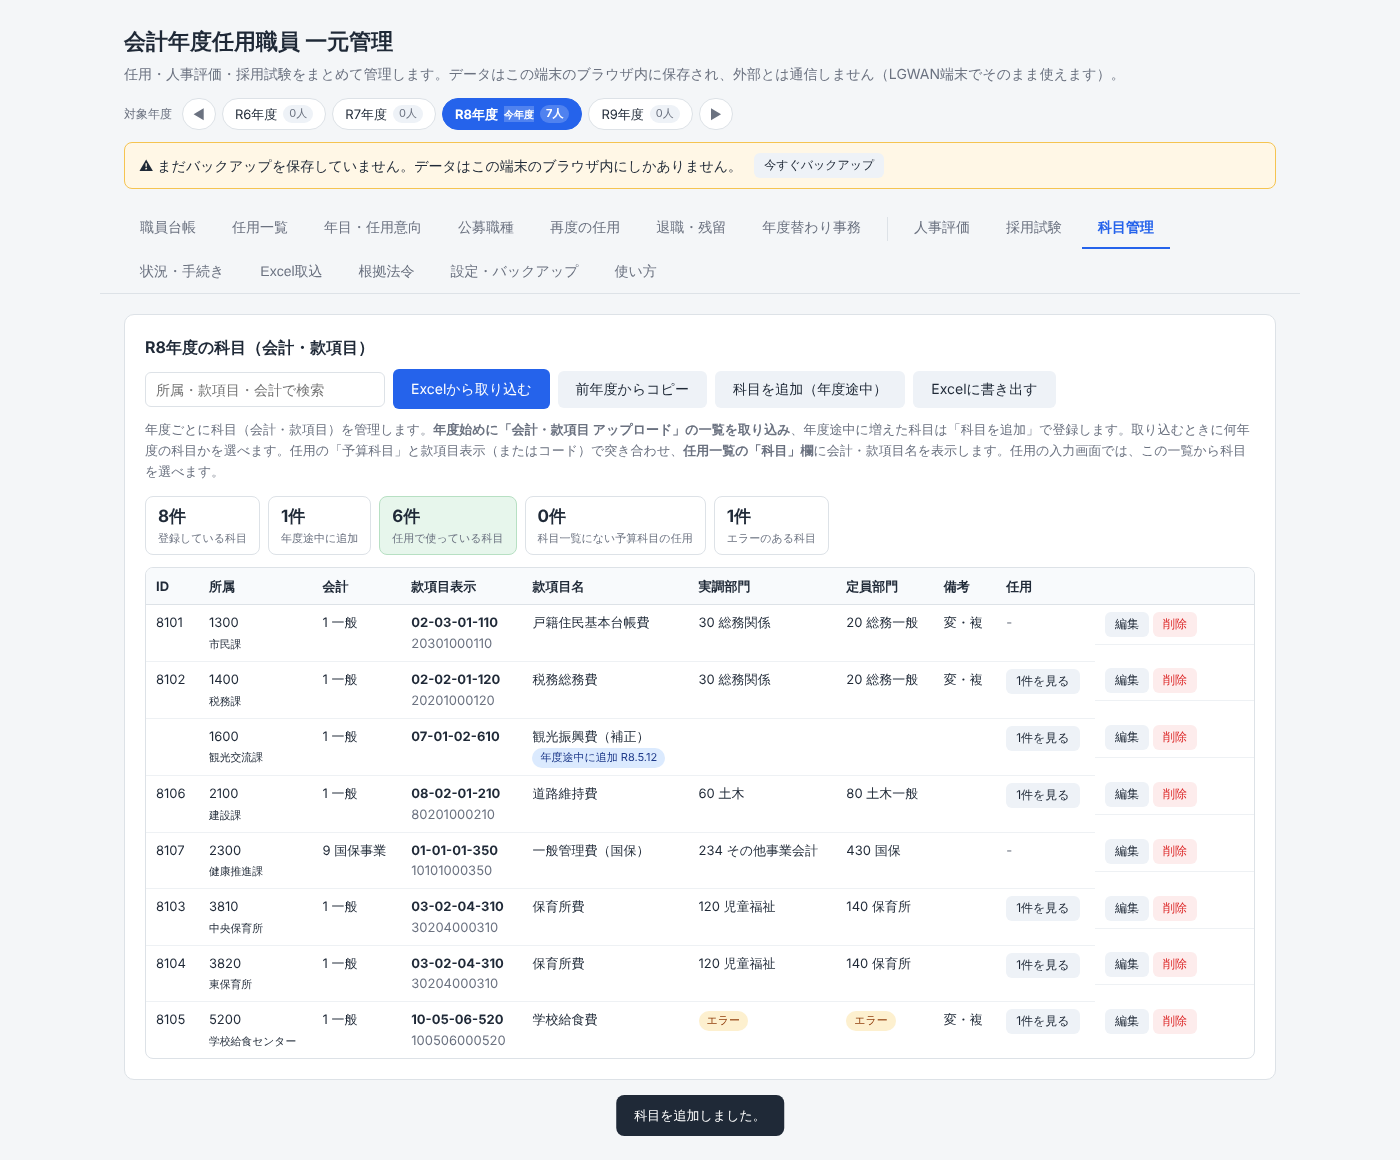
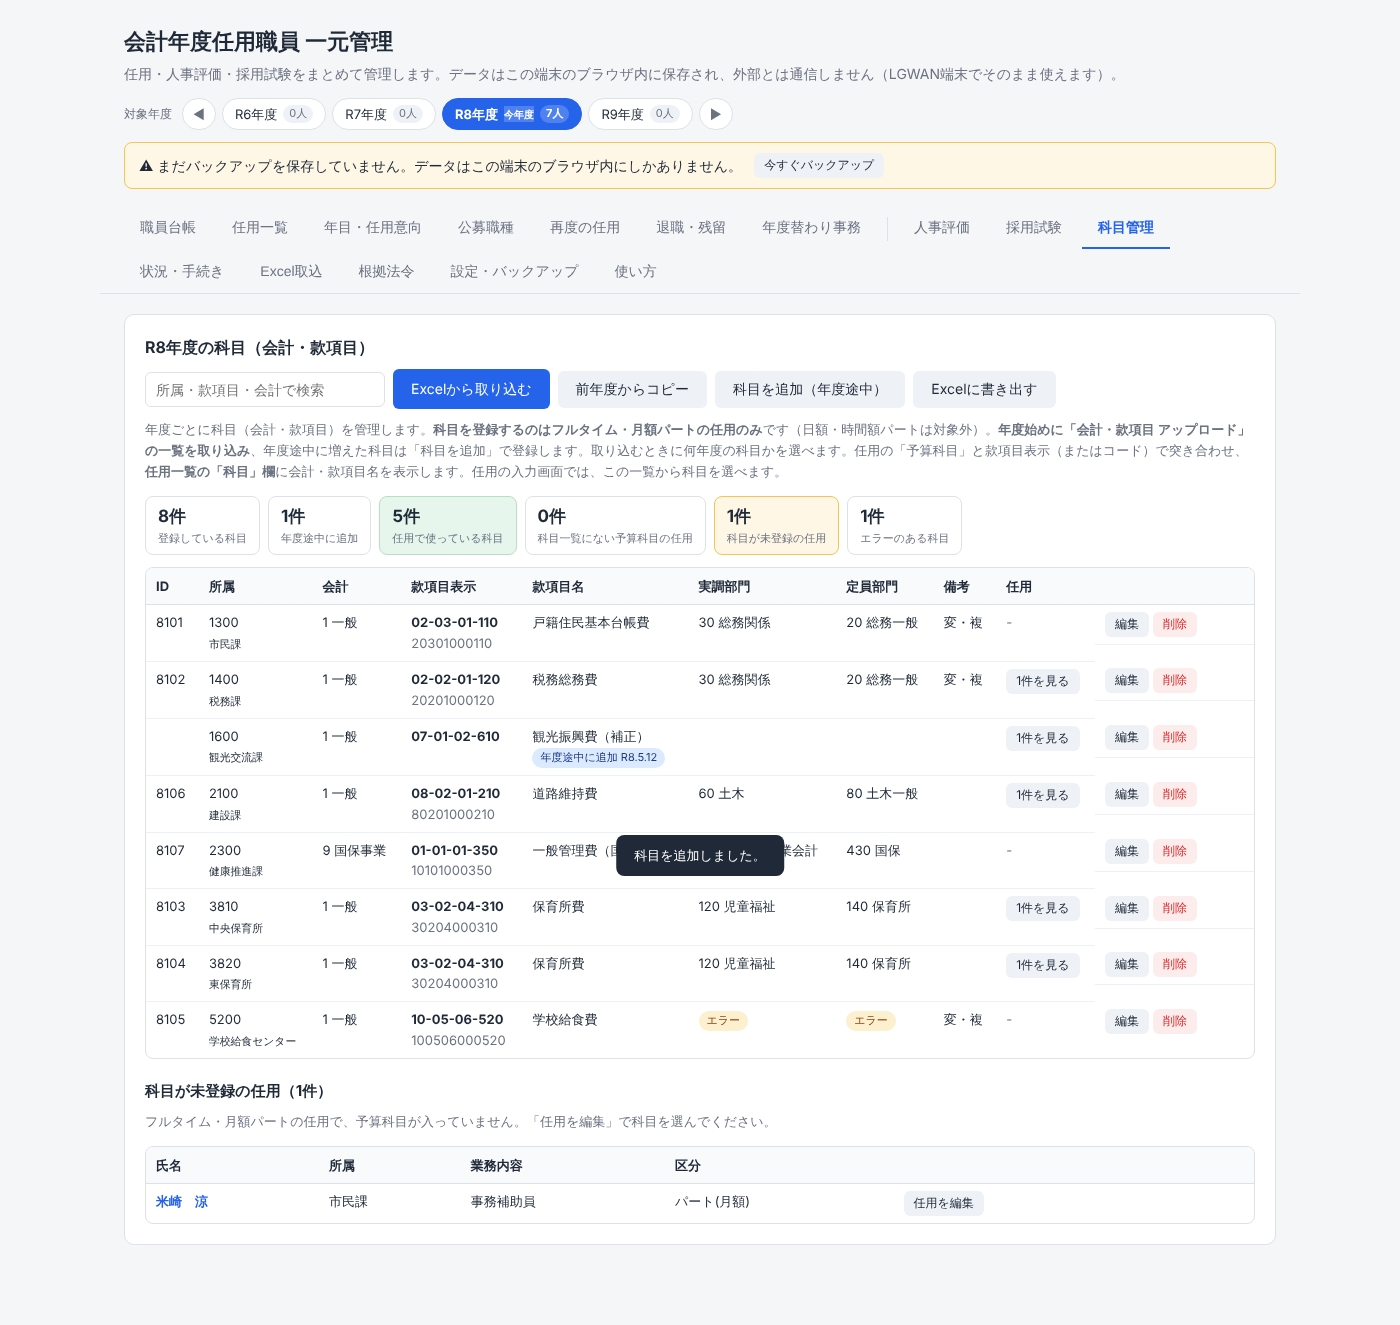
科目の登録はフルタイム・月額パートの任用のみにする
日額・時間額パートは任用一覧の科目欄を「対象外」とし、入力画面で科目を選べないようにする。
科目が未登録のフルタイム・月額パートの任用を科目管理で一覧にする。

Claude-Session: https://claude.ai/code/session_01TV6gLjN2w3tfB3MhK9eTKV

diff --git a/js/app.js b/js/app.js
@@ -590,7 +590,7 @@ function appointFields(fy = currentFy(), deptCode = '') {
     { key: 'dept', label: '所属名', required: true },
     { key: 'workplace', label: '就業場所' },
     { key: 'title', label: '業務内容', required: true, placeholder: '例：保育士、事務補助員' },
-    { key: 'kamokuSel', label: '科目（科目管理の一覧から選ぶ）', type: 'select', options: kamokuOptions(fy, deptCode), full: true, hint: '選ぶと会計・予算科目に入ります。一覧にない科目は会計・予算科目に手入力するか、科目管理で追加してください' },
+    { key: 'kamokuSel', label: '科目（科目管理の一覧から選ぶ）', type: 'select', options: kamokuOptions(fy, deptCode), full: true, hint: 'フルタイム・月額パートのみ登録します（日額・時間額パートは対象外）。選ぶと会計・予算科目に入ります。一覧にない科目は科目管理で追加してください' },
     { key: 'account', label: '会計' },
     { key: 'budgetCode', label: '予算科目', hint: '款項目表示（例：02-01-06-115）' },
     { type: 'heading', label: '任用期間・勤務時間' },
@@ -740,6 +740,15 @@ function openAppointForm(appt, preset = {}) {
   };
   document.getElementById('modal-form').addEventListener('change', refreshJudge);
   refreshJudge();
+  // 科目はフルタイム・月額パートのみ（日額・時間額パートは選べない）
+  const syncKamoku = () => {
+    const ok = ['full', 'part_monthly'].includes(document.getElementById('f-kubun').value);
+    ['f-kamokuSel', 'f-account', 'f-budgetCode'].forEach((id) => { document.getElementById(id).disabled = !ok; });
+    if (!ok) document.getElementById('f-kamokuSel').value = '';
+  };
+  document.getElementById('f-kubun').addEventListener('change', syncKamoku);
+  document.getElementById('f-weeklyHours').addEventListener('change', () => setTimeout(syncKamoku));
+  syncKamoku();
   // 科目を選んだら会計・予算科目（所属が空欄なら所属も）に入れる
   document.getElementById('f-kamokuSel').addEventListener('change', (e) => {
     const k = DATA.kamoku.find((x) => x.id === e.target.value);
@@ -2395,7 +2404,8 @@ function kamokuLabel(k) { return `${k.display || k.code} ${k.name || ''}`.trim()
 function errCell(v) { return /エラー/.test(v || '') ? `<span class="badge warn">${escapeHtml(v)}</span>` : escapeHtml(v); }
 /** 任用一覧の「科目」欄 */
 function kamokuCell(a) {
-  if (!a.budgetCode && !a.account) return '<span class="muted">-</span>';
+  if (!C.kamokuApplies(a)) return '<span class="muted">対象外</span>';
+  if (!a.budgetCode && !a.account) return a.status === 'canceled' ? '<span class="muted">-</span>' : '<span class="badge warn">科目未登録</span>';
   const k = C.kamokuOfAppointment(DATA, a);
   if (k) return `${escapeHtml(k.display || k.code)}<br><small>${escapeHtml(k.account)}／${escapeHtml(k.name)}</small>`;
   return `${escapeHtml(a.budgetCode)}${a.account ? `<br><small>${escapeHtml(a.account)}</small>` : ''}${a.budgetCode ? '<br><span class="badge warn">科目一覧にない</span>' : ''}`;
@@ -2413,13 +2423,16 @@ function renderKamoku() {
   const all = C.kamokuOfFy(DATA, fy).slice().sort((a, b) => String(a.deptCode).localeCompare(String(b.deptCode)) || String(a.display).localeCompare(String(b.display)));
   const rows = all.filter((k) => !q || C.KAMOKU_FIELDS.some(([f]) => String(k[f] || '').includes(q)));
   const used = new Map(all.map((k) => [k.id, C.appointmentsOfKamoku(DATA, k).length]));
-  const unmatched = DATA.appointments.filter((a) => a.status !== 'canceled' && a.start && C.fiscalYearOf(a.start) === fy && a.budgetCode && !C.kamokuOfAppointment(DATA, a));
+  const targets = DATA.appointments.filter((a) => a.status !== 'canceled' && a.start && C.fiscalYearOf(a.start) === fy && C.kamokuApplies(a));
+  const unmatched = targets.filter((a) => a.budgetCode && !C.kamokuOfAppointment(DATA, a));
+  const missing = targets.filter((a) => !a.budgetCode);
   document.getElementById('kamoku-title').textContent = `${fyShort(fy)}年度の科目（会計・款項目）`;
   document.getElementById('kamoku-summary').innerHTML = miniStats([
     ['登録している科目', `${all.length}件`],
     ['年度途中に追加', `${all.filter((k) => k.source === 'manual').length}件`],
     ['任用で使っている科目', `${[...used.values()].filter((n) => n).length}件`, 'ok'],
     ['科目一覧にない予算科目の任用', `${unmatched.length}件`, unmatched.length ? 'warn' : ''],
+    ['科目が未登録の任用', `${missing.length}件`, missing.length ? 'warn' : ''],
     ['エラーのある科目', `${all.filter((k) => C.KAMOKU_FIELDS.some(([f]) => /エラー/.test(k[f] || ''))).length}件`],
   ]);
   document.getElementById('kamoku-table').innerHTML = tableHtml(
@@ -2439,11 +2452,14 @@ function renderKamoku() {
     }),
     all.length ? '該当する科目はありません。' : `${C.fyLabel(fy)}の科目が登録されていません。年度始めに「Excelから取り込む」で科目の一覧を取り込むか、「前年度からコピー」してください。`,
   );
-  document.getElementById('kamoku-unmatched').innerHTML = unmatched.length ? `<h3>科目一覧にない予算科目の任用（${unmatched.length}件）</h3>
+  document.getElementById('kamoku-unmatched').innerHTML = (missing.length ? `<h3>科目が未登録の任用（${missing.length}件）</h3>
+    <p class="hint">フルタイム・月額パートの任用で、予算科目が入っていません。「任用を編集」で科目を選んでください。</p>
+    ${tableHtml(['氏名', '所属', '業務内容', '区分', ''], missing.map((a) => `<tr><td>${nameLink(a.staffId)}</td><td>${escapeHtml(a.dept)}</td><td>${escapeHtml(a.title)}</td>
+      <td>${C.KUBUN_LABEL[C.kubunOf(a)]}</td><td class="actions"><button class="btn-small" data-km-appt="${a.id}">任用を編集</button></td></tr>`))}` : '') + (unmatched.length ? `<h3>科目一覧にない予算科目の任用（${unmatched.length}件）</h3>
     <p class="hint">任用の「予算科目」が、この年度の科目一覧の款項目表示（またはコード）と一致しません。科目を追加するか、任用の科目を選び直してください。</p>
     ${tableHtml(['氏名', '所属', '業務内容', '会計', '予算科目', ''], unmatched.map((a) => `<tr><td>${nameLink(a.staffId)}</td><td>${escapeHtml(a.dept)}</td><td>${escapeHtml(a.title)}</td>
       <td>${escapeHtml(a.account)}</td><td>${escapeHtml(a.budgetCode)}</td>
-      <td class="actions"><button class="btn-small" data-km-appt="${a.id}">任用を編集</button><button class="btn-small" data-km-from="${a.id}">この科目を追加</button></td></tr>`))}` : '';
+      <td class="actions"><button class="btn-small" data-km-appt="${a.id}">任用を編集</button><button class="btn-small" data-km-from="${a.id}">この科目を追加</button></td></tr>`))}` : '');
   const root = document.getElementById('panel-kamoku');
   const find = (id) => DATA.kamoku.find((k) => k.id === id);
   root.querySelectorAll('[data-km-edit]').forEach((b) => (b.onclick = () => openKamokuForm(find(b.dataset.kmEdit))));

diff --git a/js/core.js b/js/core.js
@@ -1956,9 +1956,13 @@
     const score = (k) => (String(k.deptCode) === String(appt.deptCode || '') ? 2 : 0) + (appt.account && (k.account === appt.account || String(k.accountCode) === String(appt.account)) ? 1 : 0);
     return list.slice().sort((a, b) => score(b) - score(a))[0];
   }
+  /** 科目を登録する任用か（フルタイム・月額パートのみ。日額・時間額パートは対象外） */
+  function kamokuApplies(appt) {
+    return ['full', 'part_monthly'].includes(kubunOf(appt));
+  }
   /** 科目を使っている任用（その年度） */
   function appointmentsOfKamoku(data, k) {
-    return data.appointments.filter((a) => a.status !== 'canceled' && a.start && fiscalYearOf(a.start) === Number(k.fy) && kamokuOfAppointment(data, a) === k);
+    return data.appointments.filter((a) => a.status !== 'canceled' && a.start && fiscalYearOf(a.start) === Number(k.fy) && kamokuApplies(a) && kamokuOfAppointment(data, a) === k);
   }
 
   const api = {
@@ -1977,7 +1981,7 @@
     evaluationFor, hasGrades, suggestOverall, missingEvaluations, buildNextYearPlan,
     RETIRE_LABEL, CONTINUATION_LABEL, latestAppointmentsOfFy, continuationStatus, recruitNeeds, careerOf, fiscalYearSummary, fiscalYearsInData,
     applicantTotal, rankApplicants,
-    KAMOKU_FIELDS, normBudget, parseKamoku, kamokuOfFy, importKamoku, copyKamoku, kamokuOfAppointment, appointmentsOfKamoku,
+    KAMOKU_FIELDS, normBudget, parseKamoku, kamokuOfFy, importKamoku, copyKamoku, kamokuOfAppointment, appointmentsOfKamoku, kamokuApplies,
     YEAR_END_NOTICES, YEAR_END_SRC, insuranceNa, isClosedDay, toBusinessDay, yearEndNoticeDates, yearEndStepDate, ensureYearEnd, yearEndTargets, yearEndView, yearEndState,
     normalizeHeader, detectColumns, excelValueToISO, parseFiscalYear, parseGender, rowsToRecords, findStaff,
   };

diff --git a/index.html b/index.html
@@ -233,7 +233,7 @@
           <button class="btn-secondary" id="btn-kamoku-export">Excelに書き出す</button>
         </div>
       </div>
-      <p class="hint">年度ごとに科目（会計・款項目）を管理します。<strong>年度始めに「会計・款項目 アップロード」の一覧を取り込み</strong>、年度途中に増えた科目は「科目を追加」で登録します。取り込むときに何年度の科目かを選べます。任用の「予算科目」と款項目表示（またはコード）で突き合わせ、<strong>任用一覧の「科目」欄</strong>に会計・款項目名を表示します。任用の入力画面では、この一覧から科目を選べます。</p>
+      <p class="hint">年度ごとに科目（会計・款項目）を管理します。<strong>科目を登録するのはフルタイム・月額パートの任用のみ</strong>です（日額・時間額パートは対象外）。<strong>年度始めに「会計・款項目 アップロード」の一覧を取り込み</strong>、年度途中に増えた科目は「科目を追加」で登録します。取り込むときに何年度の科目かを選べます。任用の「予算科目」と款項目表示（またはコード）で突き合わせ、<strong>任用一覧の「科目」欄</strong>に会計・款項目名を表示します。任用の入力画面では、この一覧から科目を選べます。</p>
       <div id="kamoku-preview"></div>
       <div id="kamoku-summary" class="mini-stats"></div>
       <div id="kamoku-table"></div>

diff --git a/README.md b/README.md
@@ -19,7 +19,7 @@
 | 再度の任用 | 可否「可」・本人「希望する」・4年目にならない職員の一覧。チェックして翌年度に一括登録、Excel出力 |
 | 退職・残留 | 翌年度に残る人・残らない人の一覧と件数。任期満了・自己都合などの退職登録（年度途中は任期を短縮）と退職手続きのチェック（申送事項「退職処理」） |
 | 年度替わり事務 | 総務課（職員係）が出す通知ごと（任用希望調査／再度の任用に係る確認／募集方法／再度の任用／選考方法／年度切替の事務手続き）に、通知→取りまとめ→データ確定（募集方法は通知→求人確認、再度の任用・年度切替は予算議決の確認つき）の進み具合と、課ごとの回答の状況（未・済・該当なし。退職者は資格確認証・タイムカード・名札ケース）を記録。4月の新規採用者の資格取得・退職者の資格喪失の手続きも職員ごとに記録（社会保険・雇保／退手の入力から対象外の欄を判定）。**年度を開くと自動で作成**。日付は令和8年度任用の総務課長通知の日程をもとに土日・祝日・年末年始を避けて計算（変更可）。次にやる作業は「状況・手続き」にも表示 |
-| 科目管理 | 年度ごとの科目（会計・款項目）。**年度始めに「会計・款項目 アップロード」の一覧をExcelで取込**（何年度の科目かを選択。同じIDは上書き）、年度途中の追加・編集・削除、前年度からコピー、Excel書き出し。任用の予算科目と款項目表示（またはコード）で突き合わせ、任用一覧の「科目」欄に会計・款項目名を表示。一覧にない予算科目の任用も確認できる |
+| 科目管理 | 年度ごとの科目（会計・款項目）。科目を登録するのはフルタイム・月額パートの任用のみ（日額・時間額パートは対象外）。**年度始めに「会計・款項目 アップロード」の一覧をExcelで取込**（何年度の科目かを選択。同じIDは上書き）、年度途中の追加・編集・削除、前年度からコピー、Excel書き出し。任用の予算科目と款項目表示（またはコード）で突き合わせ、任用一覧の「科目」欄に会計・款項目名を表示。一覧にない予算科目の任用も確認できる |
 | 人事評価 | 年度ごとの評価項目・総合評価・所見の入力 |
 | 採用試験 | 競争試験／選考の登録、応募者、得点・順位、合格者の提出書類、合格者を台帳・任用へ登録 |
 | 状況・手続き | 年度別の状況、今後90日の手続き（退手・共済の切替など）、来年4月に公募が必要な職員、年間スケジュール |
